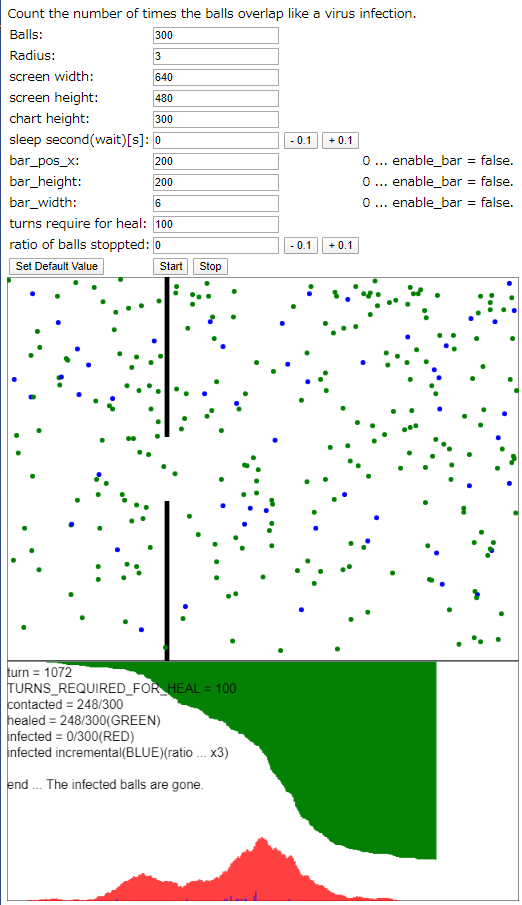
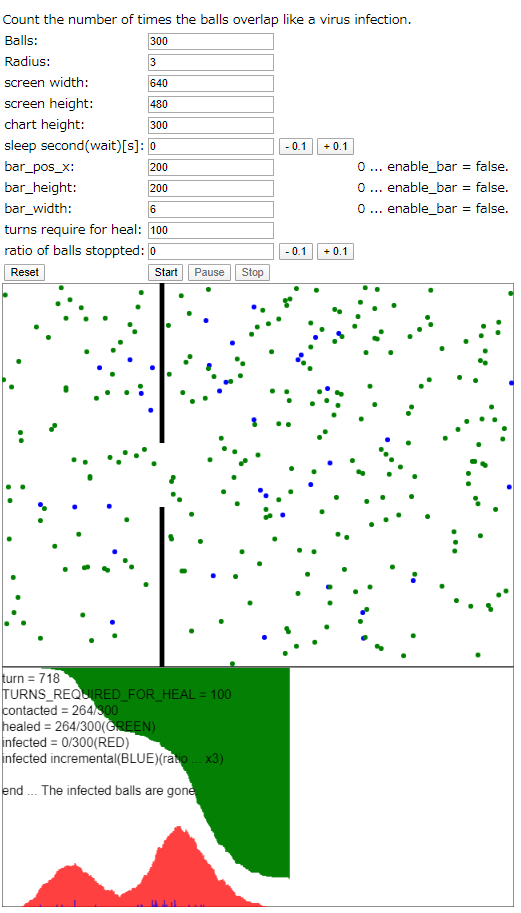
Changed overlap judgment and restart after pause

diff --git a/index.html b/index.html
@@ -31,9 +31,10 @@
         </td></tr></div>
         <div>
             <tr>
-                <td><button type="button" id="button_setDefaultValue" v-on:click='clickSetDefaultValues' class="btn">Set Default Value</button></td>
+                <td><button type="button" id="button_reset" v-on:click='clickReset' class="btn">Reset</button></td>
                 <td>
                     <button type="button" id="button_start" v-on:click='clickStart' class="btn">Start</button>
+                    <button type="button" id="button_pause" v-on:click='clickPause' class="btn">Pause</button>
                     <button type="button" id="button_stop" v-on:click='clickStop' class="btn">Stop</button>
                 </td>
                 <td></td>
@@ -194,9 +195,10 @@ class Ball {
     }
 
     check_contact(target_pos) {
-        if (Math.abs(target_pos.x - this.pos.x) <= this.radius && Math.abs(target_pos.y - this.pos.y) <= this.radius) {
+        if (Math.sqrt((target_pos.x - this.pos.x)**2 + (target_pos.y - this.pos.y)**2) < 2*this.radius) {
             return true;
         }
+
         return false;
     }
 
@@ -367,7 +369,16 @@ function calc(balls_max, radius, screen_width, screen_height, chart_height, slee
     var context = canvas.getContext('2d');
 
     function render() {
+
+        if (document.querySelector("#button_pause").innerText == "Restart") {
+            // When the Pause button is pressed.
+            return;
+        }
+
         context.save();
+
+        var button_pause = document.querySelector("#button_pause");
+
 
         init_screen(context, PARAMS.SCREEN_WIDTH, PARAMS.SCREEN_HEIGHT, PARAMS.CHART_HEIGHT);
 
@@ -559,8 +570,10 @@ function calc(balls_max, radius, screen_width, screen_height, chart_height, slee
             // stop timer call render()
             clearInterval(timer);
 
-            var button_start = document.querySelector("#button_start");
-            button_start.disabled = false;
+            document.querySelector("#button_start").disabled = false;
+            document.querySelector("#button_pause").disabled = true;
+            document.querySelector("#button_stop").disabled = true;
+
 
         } else if (infected_count == 0) {
 
@@ -571,10 +584,9 @@ function calc(balls_max, radius, screen_width, screen_height, chart_height, slee
             // stop call render()
             clearInterval(timer);
 
-            isRunning = false;
-
-            var button_start = document.querySelector("#button_start");
-            button_start.disabled = false;
+            document.querySelector("#button_start").disabled = false;
+            document.querySelector("#button_pause").disabled = true;
+            document.querySelector("#button_stop").disabled = true;
 
         } else {
 
@@ -624,22 +636,6 @@ function calc_end(context, PARAMS, results, RATIO_DRAW_WIDTH, RATIO_INFECTED_INC
 */
     console.log("calc() end.");
 }
-
-function stop() {
-    var button_start = document.querySelector("#button_start");
-    var button_stop = document.querySelector("#button_stop");
-
-    if (button_stop.innerText == "Stop" && button_start.disabled) {
-        // when running.
-        clearInterval(timer);
-
-        var button_start = document.querySelector("#button_start");
-        button_start.disabled = false;
-
-        var button_stop = document.querySelector("#button_stop");
-        button_stop.disabled = true;
-    }
-}
 </script>
 
 <script>
@@ -674,10 +670,11 @@ var vm = new Vue({
 
     mounted: function() {
         // set Default Values.
-        this.clickSetDefaultValues();
+        this.clickReset();
 
-        var button_stop = document.querySelector("#button_stop");
-        button_stop.disabled = true;
+        document.querySelector("#button_start").disabled = false;
+        document.querySelector("#button_pause").disabled = true;
+        document.querySelector("#button_stop").disabled = true;
 
         var canvas = document.getElementById("screen");
 
@@ -691,7 +688,7 @@ var vm = new Vue({
         init_screen(context, this.screen_width, this.screen_height, this.max_balls);
     },
     methods: {
-        clickSetDefaultValues: function() {
+        clickReset: function() {
             this.max_balls = 300;
             this.radius = 3;
             this.screen_width = 640;
@@ -706,11 +703,9 @@ var vm = new Vue({
             this.enable_bar = false;
         },
         clickStart: function() {
-            var button_start = document.querySelector("#button_start");
-            button_start.disabled = true;
-
-            var button_stop = document.querySelector("#button_stop");
-            button_stop.disabled = false;
+            document.querySelector("#button_start").disabled = true;
+            document.querySelector("#button_pause").disabled = false;
+            document.querySelector("#button_stop").disabled = false;
 
             max_balls = Number(this.max_balls);
             radius = Number(this.radius);
@@ -732,8 +727,34 @@ var vm = new Vue({
             var result = calc(max_balls, radius, screen_width, screen_height, chart_height, sleep_sec, enable_bar, new Bar(bar_pos_x, bar_height, bar_width), turns_required_for_heal, ratio_of_balls_stoppted);
             console.log(result);
         },
+        clickPause: function() {
+
+            console.log("button_pause pushed.");
+
+            if (document.querySelector("#button_start").disabled == false)
+                return;
+
+            var button_pause = document.querySelector("#button_pause");
+
+            if (button_pause.innerText == "Pause") {
+                button_pause.innerText = "Restart"
+
+            } else {
+                button_pause.innerText = "Pause"
+            }
+        },
         clickStop: function() {
-            stop();
+
+            console.log("button_stop pushed.");
+
+            // when running.
+            clearInterval(timer);
+
+            document.querySelector("#button_start").disabled = false;
+            document.querySelector("#button_pause").disabled = true;
+            document.querySelector("#button_stop").disabled = true;
+            document.querySelector("#button_pause").innerText = "Pause"
+
         },
         click_sleep_sec_minus: function() {
             if (this.sleep_sec > 0.0) {
@@ -746,6 +767,7 @@ var vm = new Vue({
         },
         click_sleep_sec_plus: function() {
             this.sleep_sec = Math.floor((this.sleep_sec + 0.11)*10)/10.0;
+
         },
         click_ratio_stopped_minus: function() {
             if (this.ratio_of_balls_stoppted > 0.0) {
